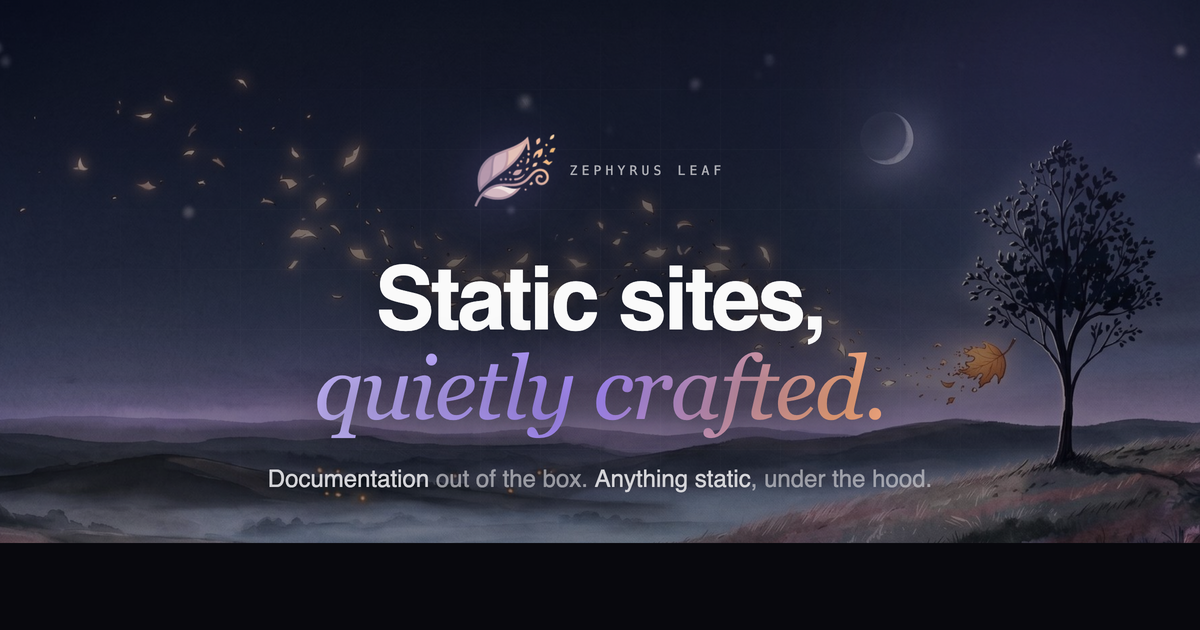
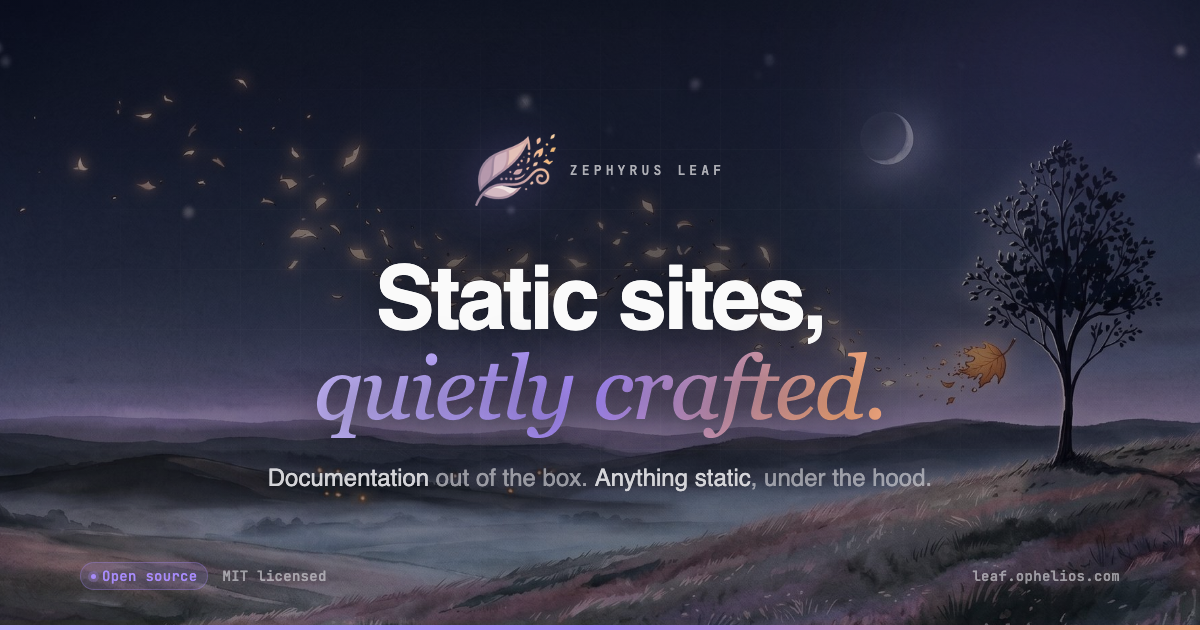
fix: og card — image fills full height, vivid gradient line at bottom

diff --git a/resources/og-templates/site.html b/resources/og-templates/site.html
@@ -33,9 +33,10 @@
   .bg-image {
     position: absolute;
     inset: 0;
-    background-image: url('../../public/assets/images/hero-dark.jpg');
-    background-size: cover;
-    background-position: center 40%;
+    width: 100%;
+    height: 100%;
+    object-fit: cover;
+    object-position: center 40%;
     z-index: 0;
   }
 
@@ -209,7 +210,7 @@
 </style>
 </head>
 <body>
-  <div class="bg-image"></div>
+  <img class="bg-image" src="../../public/assets/images/hero-dark.jpg" alt="">
   <div class="bg-scrim"></div>
   <div class="bg-grid"></div>
   <div class="orb-accent"></div>
